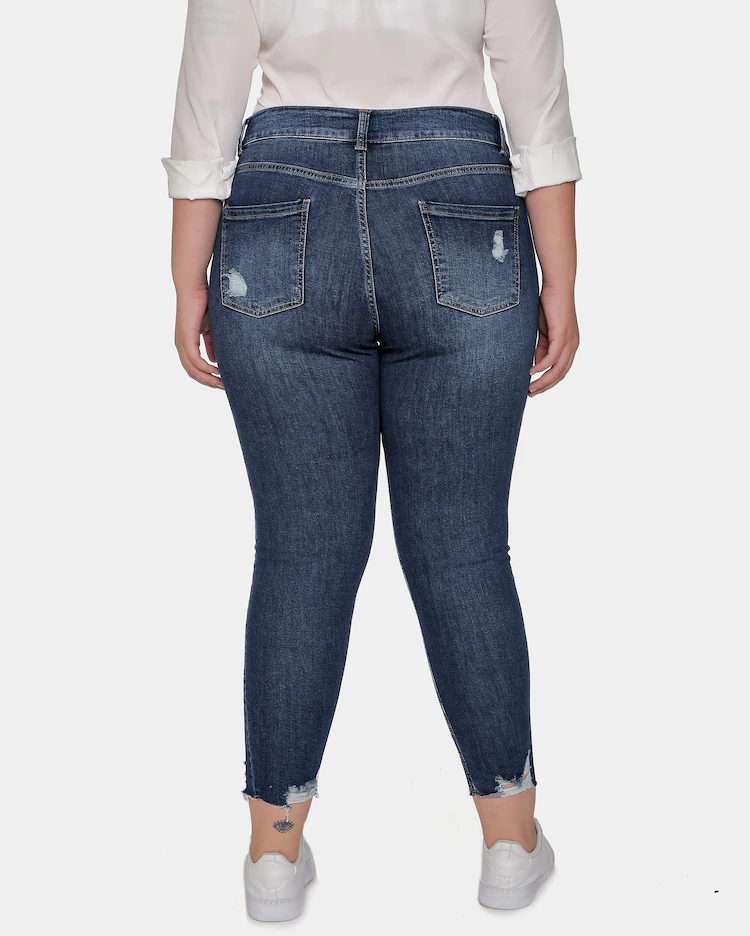
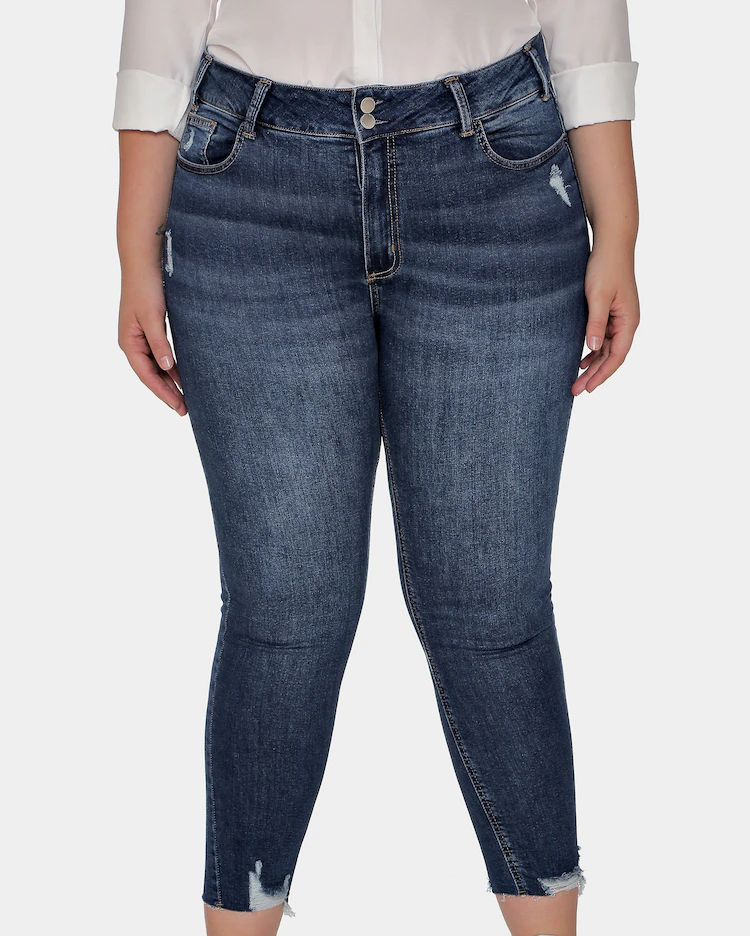
Alterações Sugeridas

diff --git a/public/js/estoque.js b/public/js/estoque.js
@@ -7,8 +7,8 @@ const estoque = [{
     quantidade_disponivel: 2,
     imagens: [
         { url: 'assets/img/produto-1/img1.jpg', descricao: 'Modelo com Blusa Preta, Plus Size, Gola Redonda, Manga 3/4, Pequenas Estampas de Onças na Cor Bege' },
-        { url: 'assets/img/produto-1/img2.jpg', descricao: '' },
-        { url: 'assets/img/produto-1/img3.jpg', descricao: '' }
+        { url: 'assets/img/produto-1/img2.jpg', descricao: 'Modelo com Blusa Preta, Plus Size, Gola Redonda, Manga 3/4, Pequenas Estampas de Onças na Cor Bege' },
+        { url: 'assets/img/produto-1/img3.jpg', descricao: 'Modelo de Costas com Blusa Preta, Plus Size, Gola Redonda, Manga 3/4, Pequenas Estampas de Onças na Cor Bege' }
     ],
 }, {
     nome: 'Blusa Plus Size Feminina Ampla Folhagem Preto Filipa by Reviva Fashion',
@@ -19,8 +19,8 @@ const estoque = [{
     quantidade_disponivel: 5,
     imagens: [
         { url: 'assets/img/produto-2/img1.jpg', descricao: 'Modelo com Blusa Preta, Plus Size, Gola Canoa, Manga Curta, Estampa de Folhas na Cor Verde na Barra' },
-        { url: 'assets/img/produto-2/img2.jpg', descricao: '' },
-        { url: 'assets/img/produto-2/img3.jpg', descricao: '' }
+        { url: 'assets/img/produto-2/img2.jpg', descricao: 'Modelo com Blusa Preta, Plus Size, Gola Canoa, Manga Curta, Estampa de Folhas na Cor Verde na Barra' },
+        { url: 'assets/img/produto-2/img3.jpg', descricao: 'Modelo de Costas Blusa Preta, Plus Size, Gola Canoa, Manga Curta, Estampa de Folhas na Cor Verde na Barra' }
     ],
 }, {
     nome: 'Blusa Plus Size Feminina Gola Alta Manga Longa Canelada Verde Filipa by Reviva Fashion',
@@ -31,8 +31,8 @@ const estoque = [{
     quantidade_disponivel: 7,
     imagens: [
         { url: 'assets/img/produto-3/img1.jpg', descricao: 'Modelo com Blusa Verde, Plus Size, Gola Alta Redonda, Manga Longa, Sem Estampas' },
-        { url: 'assets/img/produto-3/img2.jpg', descricao: '' },
-        { url: 'assets/img/produto-3/img3.jpg', descricao: '' }
+        { url: 'assets/img/produto-3/img2.jpg', descricao: 'Modelo com Blusa Verde, Plus Size, Gola Alta Redonda, Manga Longa, Sem Estampas' },
+        { url: 'assets/img/produto-3/img3.jpg', descricao: 'Modelo de Costas com Blusa Verde, Plus Size, Gola Alta Redonda, Manga Longa, Sem Estampas' }
     ],
 }, {
     nome: 'Blusa Plus Size Feminina Manga 7-8 Tricot Canelado Vermelho Filipa by Reviva Fashion',
@@ -43,8 +43,8 @@ const estoque = [{
     quantidade_disponivel: 9,
     imagens: [
         { url: 'assets/img/produto-4/img1.jpg', descricao: 'Modelo com Blusa na Cor Vermelho Escuro Mescla, Plus Size, Gola Redonda, Manga 7/8, Sem Estampas' },
-        { url: 'assets/img/produto-4/img2.jpg', descricao: '' },
-        { url: 'assets/img/produto-4/img3.jpg', descricao: '' }
+        { url: 'assets/img/produto-4/img2.jpg', descricao: 'Modelo com Blusa na Cor Vermelho Escuro Mescla, Plus Size, Gola Redonda, Manga 7/8, Sem Estampas' },
+        { url: 'assets/img/produto-4/img3.jpg', descricao: 'Modelo de Costas com Blusa na Cor Vermelho Escuro Mescla, Plus Size, Gola Redonda, Manga 7/8, Sem Estampas' }
     ],
 }, {
     nome: 'Calça Jeans Plus Size Feminina Cigarrete Denim Médio Filipa by Reviva Fashion',
@@ -55,8 +55,8 @@ const estoque = [{
     quantidade_disponivel: 12,
     imagens: [
         { url: 'assets/img/produto-5/img1.jpg', descricao: 'Modelo com Calça Jeans Cor Denim Médio, Plus Size, 2 Bolsos Frontais e 2 Traseiros, Comprimento Cigarrete, com Lavagem' },
-        { url: 'assets/img/produto-5/img2.jpg', descricao: '' },
-        { url: 'assets/img/produto-5/img3.jpg', descricao: '' }
+        { url: 'assets/img/produto-5/img2.jpg', descricao: 'Modelo com Calça Jeans Cor Denim Médio, Plus Size, 2 Bolsos Frontais e 2 Traseiros, Comprimento Cigarrete, com Lavagem' },
+        { url: 'assets/img/produto-5/img3.jpg', descricao: 'Modelo de Costas com Calça Jeans Cor Denim Médio, Plus Size, 2 Bolsos Frontais e 2 Traseiros, Comprimento Cigarrete, com Lavagem' }
     ],
 }, {
     nome: 'Top Cropped Jeans Feminino Denim Escuro Pool by Reviva Fashion',
@@ -67,8 +67,8 @@ const estoque = [{
     quantidade_disponivel: 15,
     imagens: [
         { url: 'assets/img/produto-6/img1.jpg', descricao: 'Modelo com Top Cropped Jeans, com Recorte Alça Média, Decote Princesa' },
-        { url: 'assets/img/produto-6/img2.jpg', descricao: '' },
-        { url: 'assets/img/produto-6/img3.jpg', descricao: '' }
+        { url: 'assets/img/produto-6/img2.jpg', descricao: 'Modelo com Top Cropped Jeans, com Recorte Alça Média, Decote Princesa' },
+        { url: 'assets/img/produto-6/img3.jpg', descricao: 'Modelo de Costas com Top Cropped Jeans, com Recorte Alça Média, Decote Princesa' }
     ],
 }, {
     nome: 'Top Cropped Plus Size Feminino Alças Franzidas Abstrato Marrom Filipa by Reviva Fashion',
@@ -79,8 +79,8 @@ const estoque = [{
     quantidade_disponivel: 11,
     imagens: [
         { url: 'assets/img/produto-7/img1.jpg', descricao: 'Modelo com Top Cropped, Plus Size, com Recorte Alça Média, Decote Princesa, Estampa Abstrata Marrom' },
-        { url: 'assets/img/produto-7/img2.jpg', descricao: '' },
-        { url: 'assets/img/produto-7/img3.jpg', descricao: '' }
+        { url: 'assets/img/produto-7/img2.jpg', descricao: 'Modelo com Top Cropped, Plus Size, com Recorte Alça Média, Decote Princesa, Estampa Abstrata Marrom' },
+        { url: 'assets/img/produto-7/img3.jpg', descricao: 'Modelo de Costas com Top Cropped, Plus Size, com Recorte Alça Média, Decote Princesa, Estampa Abstrata Marrom' }
     ],
 }, {
     nome: 'Camisa Plus Size Feminina Manga Longa Abstrata Marrom Filipa by Reviva Fashion',
@@ -91,20 +91,21 @@ const estoque = [{
     quantidade_disponivel: 10,
     imagens: [
         { url: 'assets/img/produto-8/img1.jpg', descricao: 'Modelo com Camisa, Manga Longa, Estampa Abstrata Marrom' },
-        { url: 'assets/img/produto-8/img2.jpg', descricao: '' },
-        { url: 'assets/img/produto-8/img3.jpg', descricao: '' }
+        { url: 'assets/img/produto-8/img2.jpg', descricao: 'Modelo com Camisa, Manga Longa, Estampa Abstrata Marrom' },
+        { url: 'assets/img/produto-8/img3.jpg', descricao: 'Modelo de Costas com Camisa, Manga Longa, Estampa Abstrata Marrom' }
     ],
 }];
 
 
-//--Adicionando itens do estoque no localStorage ------------------
+//--Card 1 ------------------
 localStorage.setItem('itens', JSON.stringify(estoque));
-const itensLocalStorage = JSON.parse(localStorage.getItem('itensSacola'));
+
+//--Card 2 ------------------
 let itensLocal = [];
 
 if (JSON.parse(localStorage.getItem("itensSacola")) !== null) {
     itensLocal = JSON.parse(localStorage.getItem("itensSacola"));
-}else{
+} else {
     itensLocal = [];
 }
 
@@ -113,30 +114,20 @@ const itens = JSON.parse(localStorage.getItem("itens"));
 
 const verificaProdutoSacola = (array, string) => array.some((value) => value.url === string);
 
-function adicionarProduto(id) {
-    const item = itens[id]
-    return item;
-}
-
 botoesSacola.forEach((botao, index, array) => {
-
     botao.addEventListener('click', () => {
-        removeProduto(index);
-        const produtos = adicionarProduto(index);
+        abateUmaUnidadeEstoque(index);
+        const produtos = itens[index];
         if (!verificaProdutoSacola(itensLocal, produtos.url)) {
             produtos["quantidade_carrinho"] = 1;
             itensLocal.push(produtos)
         } else {
-            itensLocal.forEach((item, index) => {
-                if (item.url === produtos.url) {
-                    item.quantidade_carrinho += 1;
-                }
-            })
+            itensLocal.find((value) => value.url === produtos.url).quantidade_carrinho++;
         }
         localStorage.setItem('itensSacola', JSON.stringify(itensLocal));
     });
 });
-function removeProduto(id) {
+function abateUmaUnidadeEstoque(id) {
     itens[id].quantidade_disponivel -= 1;
     localStorage.setItem('itens', JSON.stringify(itens));
 }

diff --git a/public/js/carrinho.js b/public/js/carrinho.js
@@ -1,6 +1,6 @@
 const itensMemoria = JSON.parse(localStorage.getItem("itensSacola"));
 
-function renderizar(){
+function renderizar() {
     itensMemoria.forEach((valor, index, array) => {
         aplicaProdutos(valor.nome, valor.url, valor.preco, valor.descricao, valor.tamanhos_disponiveis, valor.quantidade_disponivel, valor.imagens, valor.quantidade_carrinho);
         renderizarSubtotal(array);
@@ -9,7 +9,7 @@ function renderizar(){
 renderizar();
 function aplicaProdutos(nome, url, preco, descricoes, tamanhos_disponiveis, quantidade_disponivel, imagens, quantidade_carrinho) {
 
-    const produtosCarrinho = document.querySelector("[produtos-carrinho]");
+    const produtosCarrinho = document.querySelector("#carrinho");
 
     const carrinhoProduto = document.createElement("section");
     carrinhoProduto.classList.add("carrinho_produto");
@@ -116,7 +116,7 @@ function aplicaProdutos(nome, url, preco, descricoes, tamanhos_disponiveis, quan
 
 
 function renderizarSubtotal(arrayTotal) {
-    const produtosCarrinho = document.querySelector("[produtos-carrinho]");
+    const produtosCarrinho = document.querySelector("#carrinho");
     const total = calculaSubtotal(arrayTotal);
     const carrinhoCheckout = document.createElement("div");
     carrinhoCheckout.classList.add("carrinho_checkout");
@@ -142,17 +142,15 @@ function renderizarSubtotal(arrayTotal) {
 }
 
 function calculaSubtotal(array) {
-    let subtotal = 0;
-    array.forEach(function (item) {
-        subtotal += item.quantidade_carrinho * item.preco;
-    });
-    return subtotal;
+    return array.reduce(function (acumulador, item) {
+        return acumulador + item.quantidade_carrinho * item.preco;
+    }, 0);  
 }
 
-function alterarQuantidade(){
+function alterarQuantidade() {
     const listaInputs = document.querySelectorAll(".quantidade");
-    listaInputs.forEach((input, index) =>{
-        input.addEventListener("change", function(){
+    listaInputs.forEach((input, index) => {
+        input.addEventListener("change", function () {
             console.log(index);
             itensMemoria[index].quantidade_carrinho = Number(input.value);
             localStorage.setItem('itensSacola', JSON.stringify(itensMemoria));

diff --git a/public/js/index.js b/public/js/index.js
@@ -1,18 +1,18 @@
 const itensMemoria = JSON.parse(localStorage.getItem("itens"));
-const containerProdutos = document.querySelectorAll("[lista-itens]");
+const containerProdutos = document.querySelectorAll(".lista-itens");
 
 function renderizarProdutos(itemDestino){
     for (let i = 0; i < 4; i++) {
         const listaProdutos = document.createElement("div");
         listaProdutos.classList.add("produto");
-        listaProdutos.setAttribute("produtos-dinamicos", "")
+        listaProdutos.setAttribute("id", "produtos-dinamicos")
         itemDestino.appendChild(listaProdutos)
     }
 }
 containerProdutos.forEach(item => renderizarProdutos(item))
 
-const produtos = document.querySelectorAll("[produtos-dinamicos]")
-itensMemoria.map((valor, index) => {
+const produtos = document.querySelectorAll("#produtos-dinamicos")
+itensMemoria.forEach((valor, index) => {
     if (valor.quantidade_disponivel > 0) {
         aplicaProdutos(produtos[index], valor.nome, valor.url, valor.preco, valor.descricao, valor.tamanhos_disponiveis, valor.quantidade_disponivel, valor.imagens, index);
     }

diff --git a/public/index.html b/public/index.html
@@ -40,7 +40,7 @@
                 type="text">
             <button class="pesquisa_botao" aria-label="Pesquisar" ></button>
         </section>
-        <section class="conteudo_produtos" lista-itens >
+        <section class="conteudo_produtos lista-itens" >
             <h2 class="produtos_titulo"><a class="produtos_link" href="#">Últimos lançamentos</a></h2>
 
         </section>
@@ -52,7 +52,7 @@
                 <span class="logo_inferior">by RCHLO</span>
             </div>
         </a>
-        <section class="conteudo_produtos" lista-itens>
+        <section class="conteudo_produtos lista-itens">
             <h2 class="produtos_titulo"><a class="produtos_link" href="#">Coleção de Verão 2022</a></h2>
         </section>
         <article class="conteudo_noticias-blog">

diff --git a/public/carrinho.html b/public/carrinho.html
@@ -39,7 +39,7 @@
                 type="text">
             <button class="pesquisa_botao" aria-label="Pesquisar"></button>
         </section>
-        <section class="conteudo_carrinho" produtos-carrinho>
+        <section class="conteudo_carrinho" id="carrinho">
             <h1 class="carrinho_titulo">Minha Sacola</h1>
         </section>
     </main>
